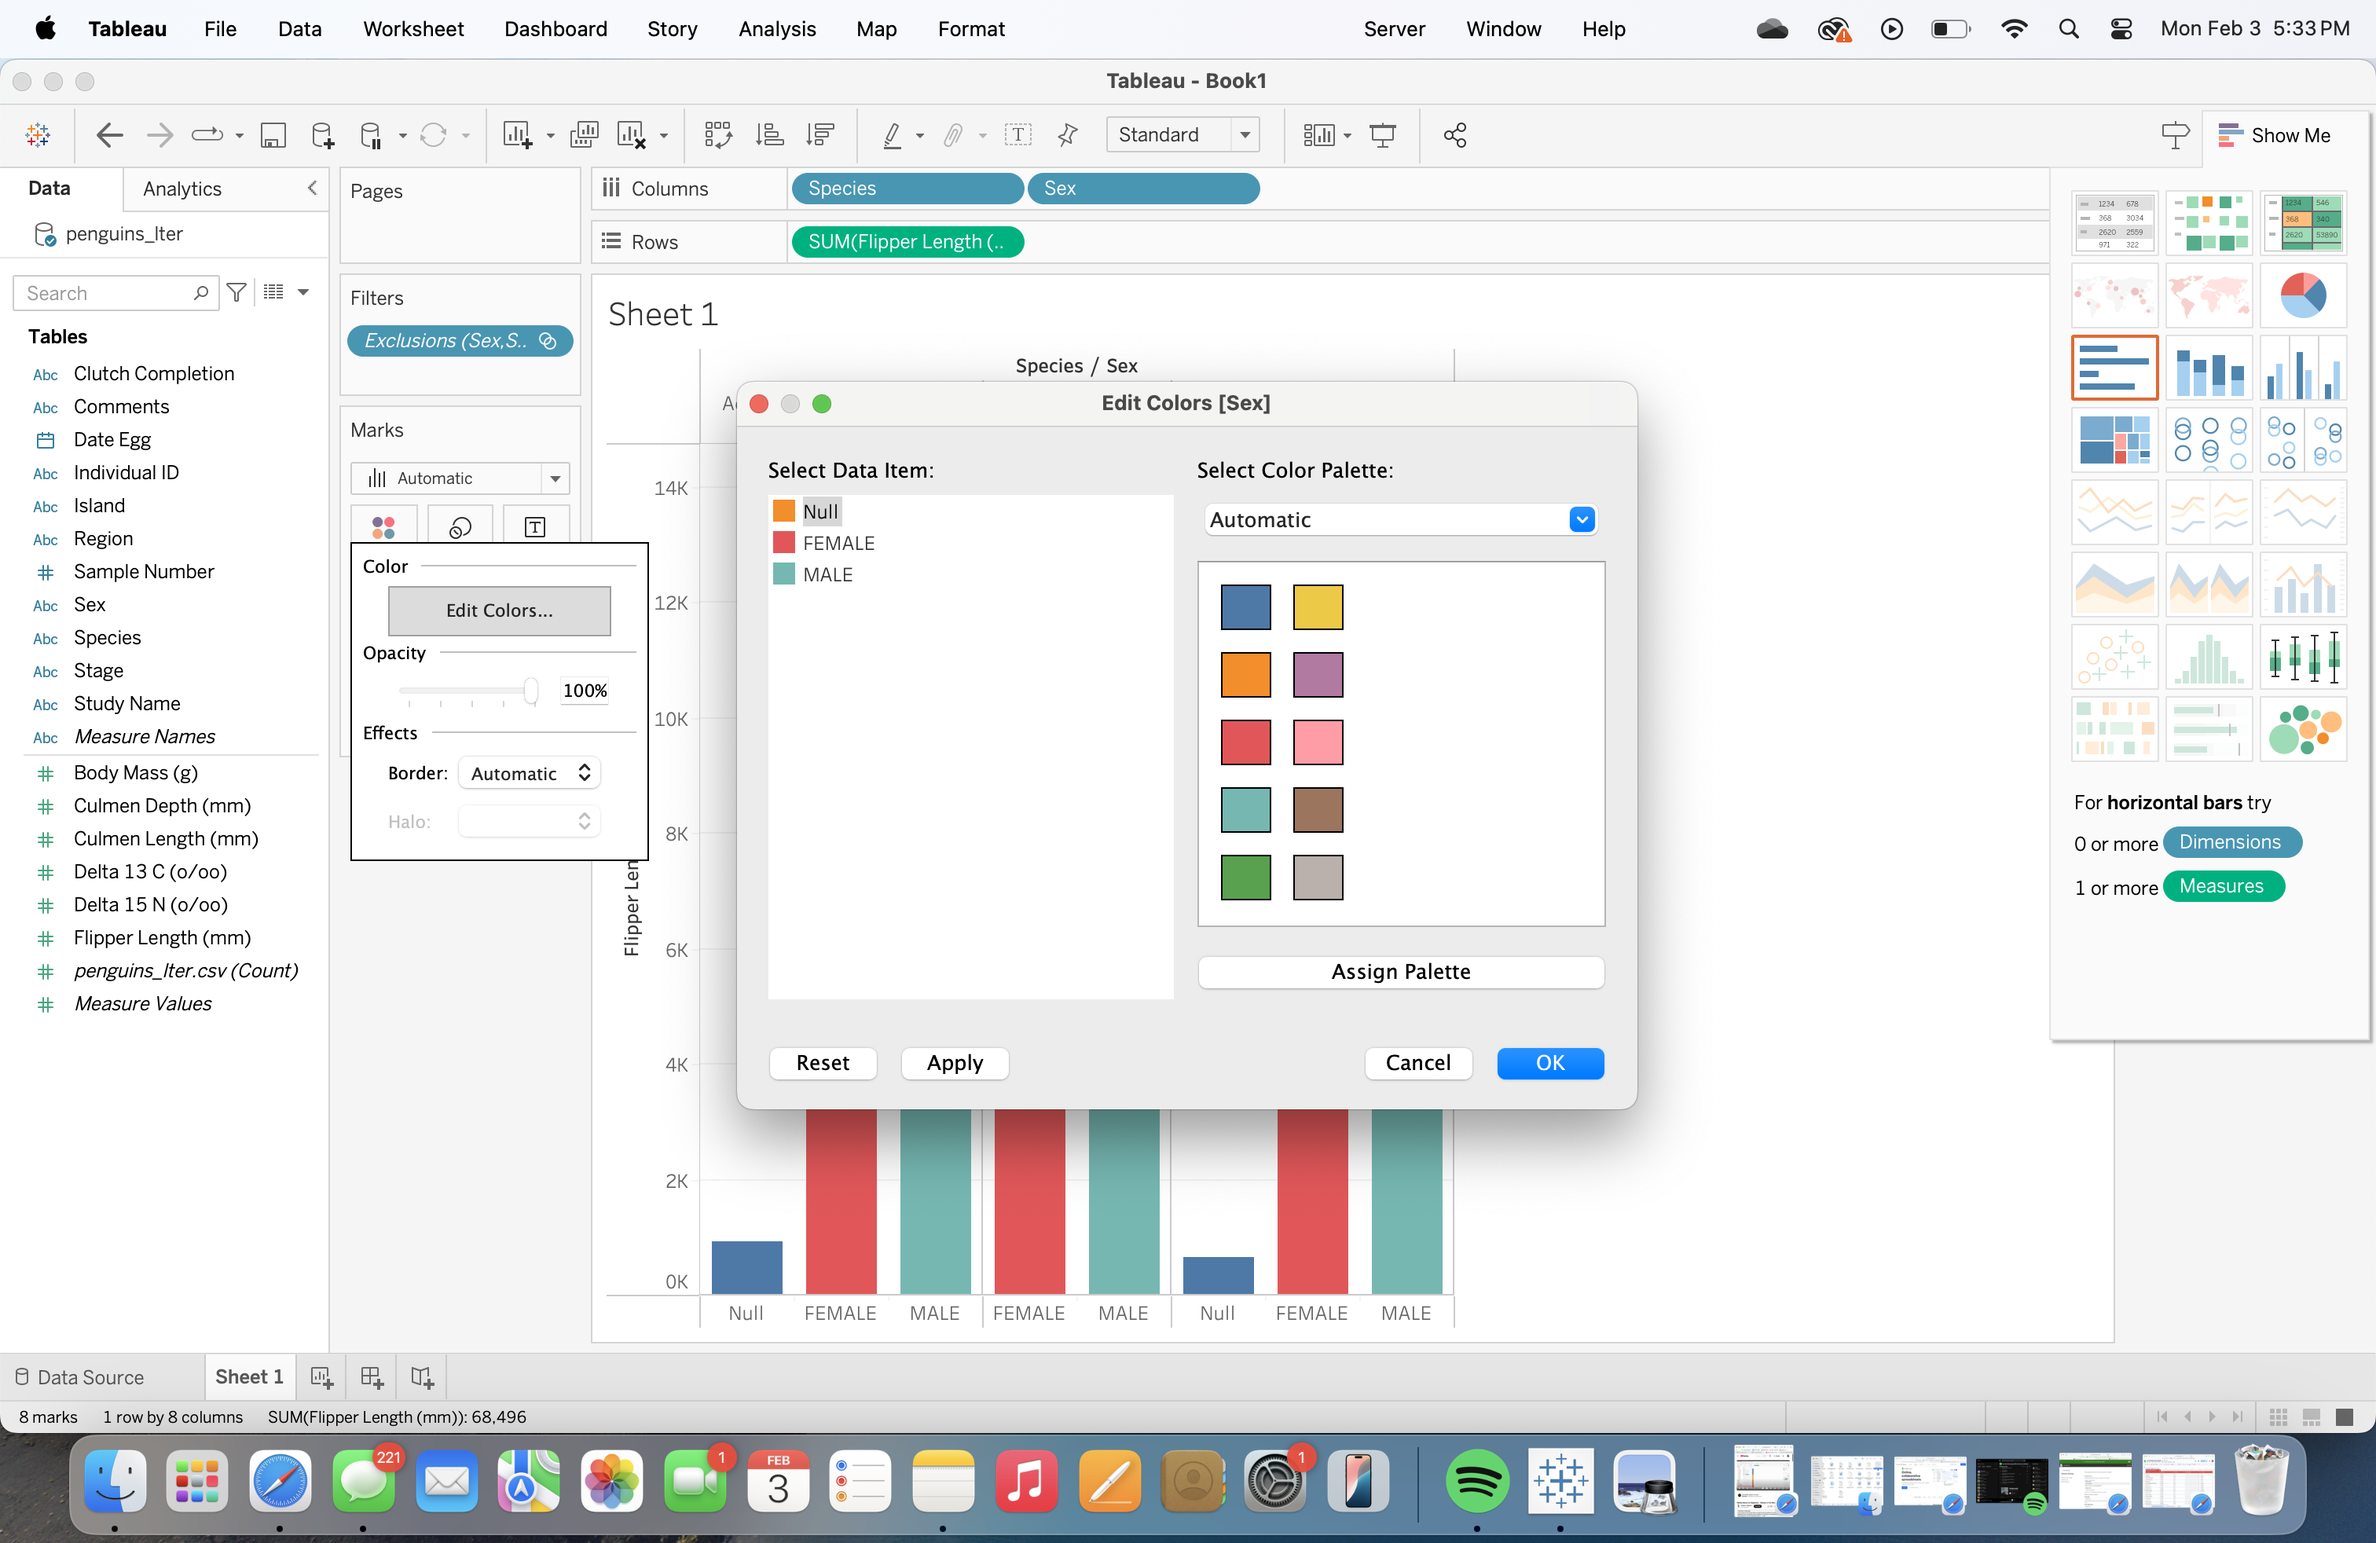
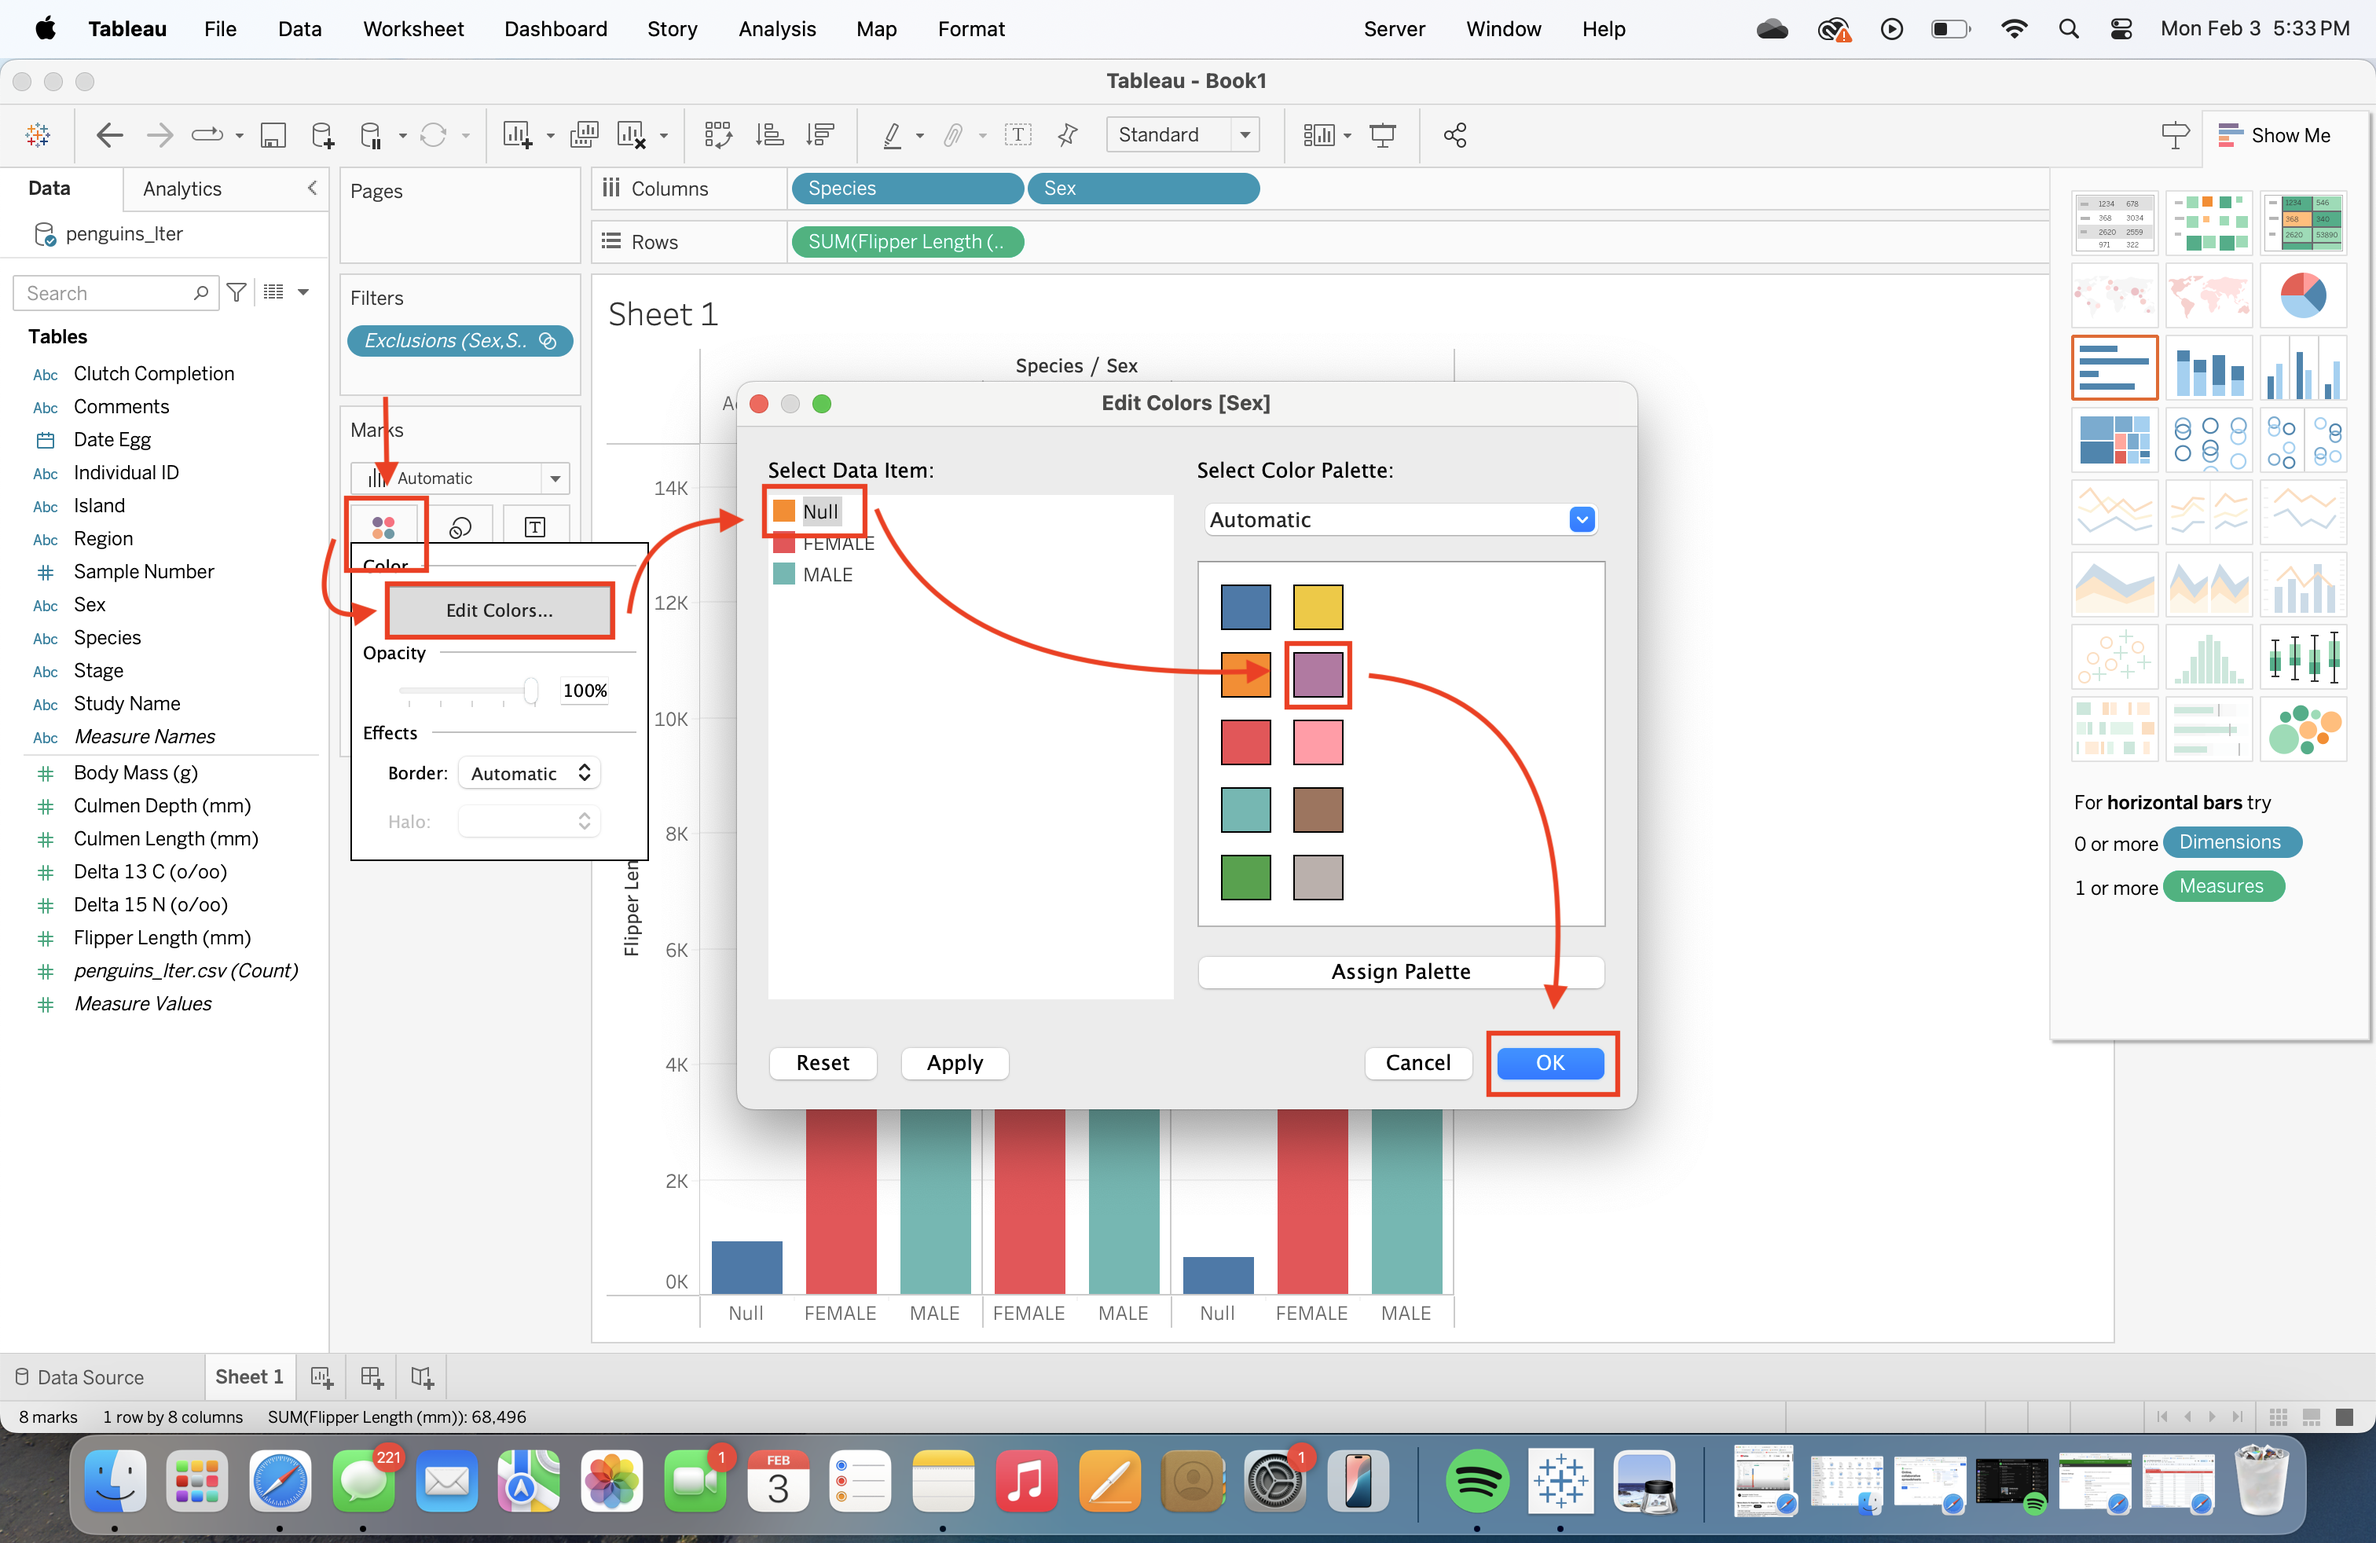
finishing the Bar chart section

diff --git a/_posts/2022-08-01-sample-post.md b/_posts/2022-08-01-sample-post.md
@@ -60,7 +60,7 @@ The picture below is what your bar chart might look like.
 
 #### **Step 3: Adjust the Aesthetics** 
 
-##### **Removing an element**
+#### **Removing an element**
 If you have an element you would like to exclude, Tableau's interface makes it quite easy to remove it. 
 
 Click on the bar you'd like removed and click "exclude" as shown below
@@ -68,3 +68,20 @@ Click on the bar you'd like removed and click "exclude" as shown below
 The picture below is what your bar chart might look like.
 
 ![Figure]({{site.url}}/{{site.baseurl}}/assets/images/post1/excludingOrange.jpg)
+
+After:
+
+![Figure]({{site.url}}/{{site.baseurl}}/assets/images/post1/afterExcludingOrange.jpg)
+
+#### **Changing the colors**
+To change the bar colors, you click on the "Color" box in the "Marks" box.
+
+Follow the arrows to walk you through how to change the colors. 
+
+![Figure]({{site.url}}/{{site.baseurl}}/assets/images/post1/changingBarcolor.jpg)
+
+AFTER: 
+
+![Figure]({{site.url}}/{{site.baseurl}}/assets/images/post1/purplebar.jpg)
+
+There are many more ways to alter and change your graphic! Feel free to explore a few, like the size or label. 
